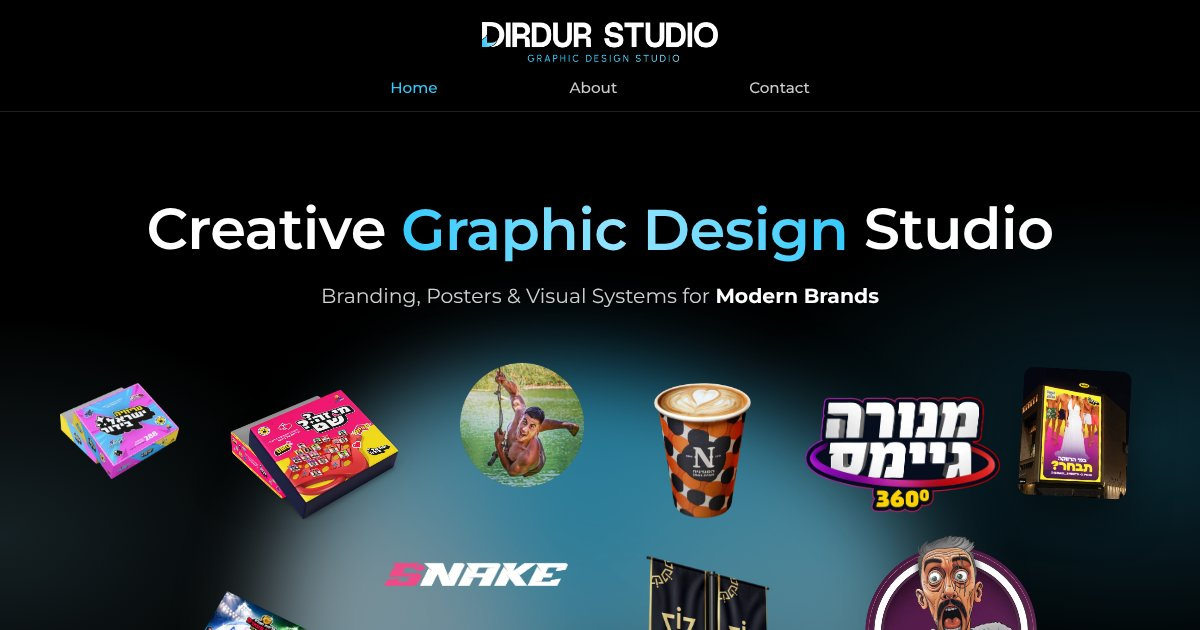
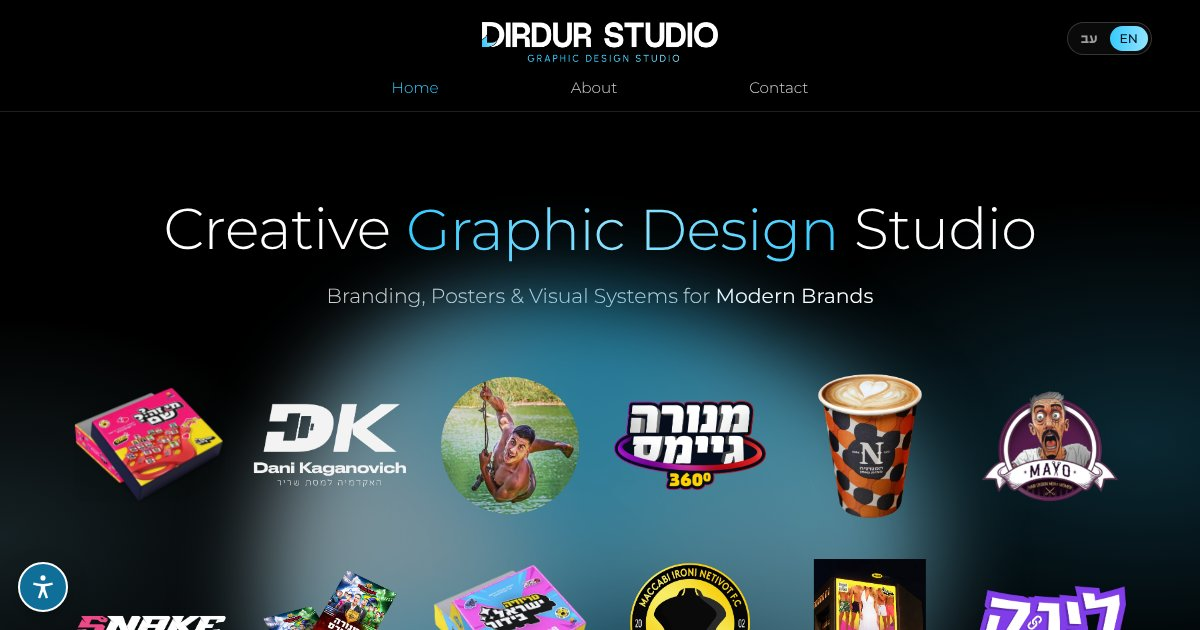
Home: uniform 6x3 grid, hide EL AL YOUNG until release
- 18 works in a regular grid (6 per row, 3 on phones), types
  interleaved, optical sizing with a slight lift for the three
  lead projects
- EL AL YOUNG removed from the grid, project order, next-project
  links and the About wall; its route is disabled; El Al dropped
  from the meta description
- Refreshed share image

Claude-Session: https://claude.ai/code/session_01LH9EpPcmjKk2DHCzSzRqG6

diff --git a/index.html b/index.html
@@ -4,7 +4,7 @@
 <meta charset="UTF-8">
 <meta name="viewport" content="width=device-width, initial-scale=1, viewport-fit=cover">
 <title>DIRDUR STUDIO | סטודיו לעיצוב גרפי ומיתוג</title>
-<meta name="description" content="DIRDUR STUDIO – סטודיו לעיצוב גרפי ומיתוג: זהות מותגית, עיצוב אירועים, פוסטרים, אריזות ומשחקי קופסה, תוכן לרשתות ומושן. בין הלקוחות: ישראל בידור, אל על, XBOX, Microsoft ו־adidas.">
+<meta name="description" content="DIRDUR STUDIO – סטודיו לעיצוב גרפי ומיתוג: זהות מותגית, עיצוב אירועים, פוסטרים, אריזות ומשחקי קופסה, תוכן לרשתות ומושן. בין הלקוחות: ישראל בידור, XBOX, Microsoft ו־adidas.">
 <link rel="canonical" href="https://dirdurstudio.com/">
 <meta name="theme-color" content="#000000">
 <link rel="icon" href="favicon.ico" sizes="any">
@@ -13,12 +13,12 @@
 <meta property="og:type" content="website">
 <meta property="og:site_name" content="DIRDUR STUDIO">
 <meta property="og:title" content="DIRDUR STUDIO | סטודיו לעיצוב גרפי ומיתוג">
-<meta property="og:description" content="DIRDUR STUDIO – סטודיו לעיצוב גרפי ומיתוג: זהות מותגית, עיצוב אירועים, פוסטרים, אריזות ומשחקי קופסה, תוכן לרשתות ומושן. בין הלקוחות: ישראל בידור, אל על, XBOX, Microsoft ו־adidas.">
+<meta property="og:description" content="DIRDUR STUDIO – סטודיו לעיצוב גרפי ומיתוג: זהות מותגית, עיצוב אירועים, פוסטרים, אריזות ומשחקי קופסה, תוכן לרשתות ומושן. בין הלקוחות: ישראל בידור, XBOX, Microsoft ו־adidas.">
 <meta property="og:url" content="https://dirdurstudio.com/">
 <meta property="og:image" content="https://dirdurstudio.com/img/og.jpg">
 <meta property="og:locale" content="he_IL">
 <meta name="twitter:card" content="summary_large_image">
-<script type="application/ld+json">{"@context":"https://schema.org","@type":"ProfessionalService","name":"DIRDUR STUDIO","alternateName":"דירדור סטודיו","url":"https://dirdurstudio.com/","description":"DIRDUR STUDIO – סטודיו לעיצוב גרפי ומיתוג: זהות מותגית, עיצוב אירועים, פוסטרים, אריזות ומשחקי קופסה, תוכן לרשתות ומושן. בין הלקוחות: ישראל בידור, אל על, XBOX, Microsoft ו־adidas.","email":"dirdurdesign@gmail.com","telephone":"+972504654462","areaServed":"IL","image":"https://dirdurstudio.com/img/og.jpg","logo":"https://dirdurstudio.com/icon-192.png","sameAs":["https://www.instagram.com/dirdurstudio/"]}</script>
+<script type="application/ld+json">{"@context":"https://schema.org","@type":"ProfessionalService","name":"DIRDUR STUDIO","alternateName":"דירדור סטודיו","url":"https://dirdurstudio.com/","description":"DIRDUR STUDIO – סטודיו לעיצוב גרפי ומיתוג: זהות מותגית, עיצוב אירועים, פוסטרים, אריזות ומשחקי קופסה, תוכן לרשתות ומושן. בין הלקוחות: ישראל בידור, XBOX, Microsoft ו־adidas.","email":"dirdurdesign@gmail.com","telephone":"+972504654462","areaServed":"IL","image":"https://dirdurstudio.com/img/og.jpg","logo":"https://dirdurstudio.com/icon-192.png","sameAs":["https://www.instagram.com/dirdurstudio/"]}</script>
 <link rel="preload" href="fonts/singulari-300.woff2" as="font" type="font/woff2" crossorigin><link rel="preload" href="fonts/singulari-500.woff2" as="font" type="font/woff2" crossorigin><link rel="preconnect" href="https://fonts.googleapis.com"><link rel="preconnect" href="https://fonts.gstatic.com" crossorigin>
 <link href="https://fonts.googleapis.com/css2?family=Montserrat:wght@200;300;400;500;600;700&display=swap" rel="stylesheet">
  <style>@font-face{font-family:"Singulari";src:url("fonts/singulari-200.woff2") format("woff2");font-weight:200;font-style:normal;font-display:swap;unicode-range:U+0590-05FF,U+FB1D-FB4F,U+20AA}
@@ -557,11 +557,11 @@ html.a11y-still *,html.a11y-still *::before,html.a11y-still *::after{animation:n
 @media (max-width:760px){.a11y-btn{width:44px;height:44px;bottom:12px;left:12px}.a11y-panel{bottom:66px;left:12px}}
 /* ===== static home grid ===== */
 .field{width:min(1080px,94vw);aspect-ratio:auto;perspective:none;margin-top:clamp(28px,4vw,50px)}
-.layer{position:relative;inset:auto;display:grid;grid-template-columns:repeat(6,1fr);grid-auto-rows:calc(min(1080px,94vw)/6);grid-template-areas:"a a s1 s2 b b" "a a s3 s4 b b" "w1 w1 c c s5 s6" "s7 s8 c c w2 w2" "d d w3 w3 s9 t" "d d w4 w4 s10 t";transform:none!important}
+.layer{position:relative;inset:auto;display:grid;grid-template-columns:repeat(6,1fr);grid-auto-rows:calc(min(1080px,94vw)/6);transform:none!important}
 .w{position:static;width:auto;display:flex;align-items:center;justify-content:center;opacity:1!important;transform:none!important}
 .w img{height:auto;max-height:100%;max-width:100%}
 .w-card img,.g-f img[src*="elal"],.g-tl img{border-radius:10px;box-shadow:0 18px 40px rgba(0,0,0,.5)}
-@media (max-width:760px){.field{width:94vw}.layer{grid-template-columns:repeat(3,1fr);grid-auto-rows:calc(94vw/3);grid-template-areas:"a a s1" "a a s2" "w1 w1 s3" "s4 b b" "s5 b b" "w2 w2 s6" "c c s7" "c c s8" "w3 w3 t" "w4 w4 t" "d d s9" "d d s10"}}
+@media (max-width:760px){.field{width:94vw}.layer{grid-template-columns:repeat(3,1fr);grid-auto-rows:calc(94vw/3)}}
 </style>
 </head>
 <body>
@@ -580,7 +580,7 @@ html.a11y-still *,html.a11y-still *::before,html.a11y-still *::after{animation:n
   <h1 class="split" data-dir><span class="m"><span data-i18n="hero.a">Creative</span></span> <span class="m"><span><span class="tech" id="tech" aria-label="Graphic Design">Graphic Design</span></span></span> <span class="m"><span data-i18n="hero.c">Studio</span></span></h1>
   <p class="sub reveal" data-dir data-i18n="hero.sub">Branding, Posters &amp; Visual Systems for <b>Modern Brands</b></p>
  </section>
- <div class="field" id="field"><div class="blob2" aria-hidden="true"><i></i><i></i><i></i></div><div class="layer" id="layer"><a class="w g-f" style="grid-area:a" href="#/work/6" aria-label="Who Is It?"><img src="img/work/w06.webp" alt="" style="width:79.2%"></a><a class="w g-f" style="grid-area:b" href="#/work/17" aria-label="Trivia Israel Bidur"><img src="img/tr-tile.webp" alt="" style="width:76.8%"></a><a class="w g-f" style="grid-area:c" href="#/work/5" aria-label="Fidias Panayiotou"><img src="img/work/w05.webp" alt="" style="width:68.9%"></a><a class="w g-f" style="grid-area:d" href="#/work/16" aria-label="EL AL YOUNG"><img src="img/elal-tile.webp" alt="" style="width:80.5%"></a><a class="w g-wd" style="grid-area:w1" href="#/work/1" aria-label="Menora Games 360°"><img src="img/work/w01.webp" alt="" style="width:51.1%"></a><a class="w g-wd" style="grid-area:w2" href="#/work/7" aria-label="Dani Kaganovich"><img src="img/work/w07.webp" alt="" style="width:53.1%"></a><a class="w g-wd" style="grid-area:w3" href="#/work/15" aria-label="Snake"><img src="img/work/w15.webp" alt="" style="width:84.0%"></a><a class="w g-wd" style="grid-area:w4" href="#/work/4" aria-label="Link"><img src="img/work/w04.webp" alt="" style="width:54.2%"></a><a class="w g-tl" style="grid-area:t" href="#/work/18" aria-label="Israel Shorts"><img src="img/ib-shorts-tile.webp" alt="" style="width:72.4%"></a><a class="w g-s" style="grid-area:s1" href="#/work/13" aria-label="Mayo Barbershop"><img src="img/work/w13.webp" alt="" style="width:75.4%"></a><a class="w g-s" style="grid-area:s2" href="#/work/2" aria-label="HaMagdania by Neeman"><img src="img/work/w02.webp" alt="" style="width:57.5%"></a><a class="w g-s" style="grid-area:s3" href="#/work/8" aria-label="Maccabi Ironi Netivot"><img src="img/work/w08.webp" alt="" style="width:66.6%"></a><a class="w g-s" style="grid-area:s4" href="#/work/12" aria-label="Menora Stars"><img src="img/work/w12.webp" alt="" style="width:74.1%"></a><a class="w g-s" style="grid-area:s5" href="#/work/9" aria-label="Inda's Million Celebration"><img src="img/work/w09.webp" alt="" style="width:61.4%"></a><a class="w g-s" style="grid-area:s6" href="#/work/11" aria-label="YouTubers Championship"><img src="img/work/w11.webp" alt="" style="width:69.3%"></a><a class="w g-s" style="grid-area:s7" href="#/work/3" aria-label="Ping Pong Camp"><img src="img/work/w03.webp" alt="" style="width:70.5%"></a><a class="w g-s" style="grid-area:s8" href="#/work/10" aria-label="Hanukkah Event"><img src="img/work/w10.webp" alt="" style="width:71.3%"></a><a class="w g-s" style="grid-area:s9" href="#/work/14" aria-label="Scam Hunter"><img src="img/work/w14.webp" alt="" style="width:82.0%"></a><a class="w g-s" style="grid-area:s10" href="#/work/0" aria-label="Glasses Gift Box"><img src="img/work/w00.webp" alt="" style="width:66.9%"></a></div></div>
+ <div class="field" id="field"><div class="blob2" aria-hidden="true"><i></i><i></i><i></i></div><div class="layer" id="layer"><a class="w" href="#/work/6" aria-label="Who Is It?"><img src="img/work/w06.webp" alt="" style="width:84.0%"></a><a class="w" href="#/work/7" aria-label="Dani Kaganovich"><img src="img/work/w07.webp" alt="" style="width:84.0%"></a><a class="w" href="#/work/5" aria-label="Fidias Panayiotou"><img src="img/work/w05.webp" alt="" style="width:76.2%"></a><a class="w" href="#/work/1" aria-label="Menora Games 360°"><img src="img/work/w01.webp" alt="" style="width:84.0%"></a><a class="w" href="#/work/2" aria-label="HaMagdania by Neeman"><img src="img/work/w02.webp" alt="" style="width:57.5%"></a><a class="w" href="#/work/13" aria-label="Mayo Barbershop"><img src="img/work/w13.webp" alt="" style="width:75.4%"></a><a class="w" href="#/work/15" aria-label="Snake"><img src="img/work/w15.webp" alt="" style="width:84.0%"></a><a class="w" href="#/work/12" aria-label="Menora Stars"><img src="img/work/w12.webp" alt="" style="width:74.1%"></a><a class="w" href="#/work/17" aria-label="Trivia Israel Bidur"><img src="img/tr-tile.webp" alt="" style="width:84.0%"></a><a class="w" href="#/work/8" aria-label="Maccabi Ironi Netivot"><img src="img/work/w08.webp" alt="" style="width:66.6%"></a><a class="w" href="#/work/18" aria-label="Israel Shorts"><img src="img/ib-shorts-tile.webp" alt="" style="width:62.3%"></a><a class="w" href="#/work/4" aria-label="Link"><img src="img/work/w04.webp" alt="" style="width:84.0%"></a><a class="w" href="#/work/10" aria-label="Hanukkah Event"><img src="img/work/w10.webp" alt="" style="width:71.3%"></a><a class="w" href="#/work/14" aria-label="Scam Hunter"><img src="img/work/w14.webp" alt="" style="width:82.0%"></a><a class="w" href="#/work/3" aria-label="Ping Pong Camp"><img src="img/work/w03.webp" alt="" style="width:70.5%"></a><a class="w" href="#/work/11" aria-label="YouTubers Championship"><img src="img/work/w11.webp" alt="" style="width:69.3%"></a><a class="w" href="#/work/9" aria-label="Inda's Million Celebration"><img src="img/work/w09.webp" alt="" style="width:61.4%"></a><a class="w" href="#/work/0" aria-label="Glasses Gift Box"><img src="img/work/w00.webp" alt="" style="width:66.9%"></a></div></div>
  <div class="marq" aria-hidden="true"><div class="track" id="track"></div></div>
  <section class="stats" data-dir dir="rtl" aria-label="הסטודיו במספרים" data-i18n-aria="stats.aria">
   <div class="st"><b dir="ltr"><span class="num" data-to="48">48</span>M</b><span data-i18n="stats.1">חשיפות לטקס נבחרי ישראל בידור 2026</span></div>
@@ -669,7 +669,7 @@ html.a11y-still *,html.a11y-still *::before,html.a11y-still *::after{animation:n
 <script src="https://cdnjs.cloudflare.com/ajax/libs/gsap/3.12.5/gsap.min.js"></script>
 <script src="https://cdnjs.cloudflare.com/ajax/libs/gsap/3.12.5/ScrollTrigger.min.js"></script>
 <script src="https://cdn.jsdelivr.net/npm/lenis@1.1.13/dist/lenis.min.js"></script>
-<script>var D={"names": {"0": ["Glasses Gift Box", "Packaging"], "1": ["Menora Games 360°", "Event Branding"], "2": ["HaMagdania by Neeman", "Branding"], "3": ["Ping Pong Camp", "Logo"], "4": ["Link", "Logo"], "5": ["Fidias Panayiotou", "Visual"], "6": ["Mi Ze Shem?", "Board Game"], "7": ["Dani Kaganovich", "Branding"], "8": ["Maccabi Ironi Netivot", "Logo"], "9": ["Inda's Million Celebration", "Event Branding"], "10": ["Hanukkah Event", "Event Branding"], "11": ["YouTubers Championship", "Posters"], "12": ["Menora Stars", "Posters"], "13": ["Mayo Barbershop", "Logo"], "14": ["Scam Hunter", "Packaging"], "15": ["Snake", "Logo"], "16": ["EL AL YOUNG", "Packaging"], "17": ["Trivia Israel Bidur", "Board Game"], "18": ["Israel Shorts", "Outdoor Campaign"]}, "order": [17, 6, 18, 16, 5, 2, 1, 15, 12, 8, 7, 9, 13, 3, 14, 11, 4, 0, 10]},IMG={"17":"img/tr-tile.webp","18":"img/ib-shorts-tile.webp","16":"img/elal-tile.webp","0": "img/work/w00.webp", "1": "img/work/w01.webp", "2": "img/work/w02.webp", "3": "img/work/w03.webp", "4": "img/work/w04.webp", "5": "img/work/w05.webp", "6": "img/work/w06.webp", "7": "img/work/w07.webp", "8": "img/work/w08.webp", "9": "img/work/w09.webp", "10": "img/work/w10.webp", "11": "img/work/w11.webp", "12": "img/work/w12.webp", "13": "img/work/w13.webp", "14": "img/work/w14.webp", "15": "img/work/w15.webp"},EXTRA={"1": ["img/work/extra-1.webp", "img/work/extra-2.webp"], "12": ["img/work/extra-2.webp", "img/work/extra-1.webp"]},MAIL="dirdurdesign@gmail.com";
+<script>var D={"names": {"0": ["Glasses Gift Box", "Packaging"], "1": ["Menora Games 360°", "Event Branding"], "2": ["HaMagdania by Neeman", "Branding"], "3": ["Ping Pong Camp", "Logo"], "4": ["Link", "Logo"], "5": ["Fidias Panayiotou", "Visual"], "6": ["Mi Ze Shem?", "Board Game"], "7": ["Dani Kaganovich", "Branding"], "8": ["Maccabi Ironi Netivot", "Logo"], "9": ["Inda's Million Celebration", "Event Branding"], "10": ["Hanukkah Event", "Event Branding"], "11": ["YouTubers Championship", "Posters"], "12": ["Menora Stars", "Posters"], "13": ["Mayo Barbershop", "Logo"], "14": ["Scam Hunter", "Packaging"], "15": ["Snake", "Logo"], "16": ["EL AL YOUNG", "Packaging"], "17": ["Trivia Israel Bidur", "Board Game"], "18": ["Israel Shorts", "Outdoor Campaign"]}, "order": [6, 7, 5, 1, 2, 13, 15, 12, 17, 8, 18, 4, 10, 14, 3, 11, 9, 0]},IMG={"17":"img/tr-tile.webp","18":"img/ib-shorts-tile.webp","16":"img/elal-tile.webp","0": "img/work/w00.webp", "1": "img/work/w01.webp", "2": "img/work/w02.webp", "3": "img/work/w03.webp", "4": "img/work/w04.webp", "5": "img/work/w05.webp", "6": "img/work/w06.webp", "7": "img/work/w07.webp", "8": "img/work/w08.webp", "9": "img/work/w09.webp", "10": "img/work/w10.webp", "11": "img/work/w11.webp", "12": "img/work/w12.webp", "13": "img/work/w13.webp", "14": "img/work/w14.webp", "15": "img/work/w15.webp"},EXTRA={"1": ["img/work/extra-1.webp", "img/work/extra-2.webp"], "12": ["img/work/extra-2.webp", "img/work/extra-1.webp"]},MAIL="dirdurdesign@gmail.com";
 var RM=matchMedia('(prefers-reduced-motion: reduce)').matches;
 var FINE=matchMedia('(hover:hover) and (pointer:fine)').matches;
 var STILL0=(function(){try{return !!JSON.parse(localStorage.getItem('a11y')||'{}').still}catch(e){return false}})();
@@ -825,7 +825,7 @@ function work(id){
  document.getElementById('p-work').innerHTML=h;
 }
 function resolve(){var h=location.hash,m=h.match(/^#\/work\/(\d+)/);
- if(m&&D.names[m[1]])return {k:'work',id:+m[1]};
+ if(m&&D.names[m[1]]&&D.order.indexOf(+m[1])>-1)return {k:'work',id:+m[1]};
  if(h==='#/about')return {k:'about'}; if(h==='#/contact')return {k:'contact'}; if(h==='#/accessibility')return {k:'a11y'}; return {k:'home'};}
 var STMT={he:"<h1>הצהרת נגישות</h1>\n<p class=\"st-upd\">עודכן לאחרונה: 2 בנובמבר 2026</p>\n<p>ב־DIRDUR STUDIO אנחנו רואים חשיבות בכך שהאתר יהיה נגיש ונוח לשימוש לכל אדם, כולל אנשים עם מוגבלות. השקענו מאמצים להנגיש את האתר בהתאם לתקנות שוויון זכויות לאנשים עם מוגבלות (התאמות נגישות לשירות), התשע״ג–2013, ולתקן הישראלי ת״י 5568, המבוסס על הנחיות WCAG ברמה AA.</p>\n<h2>מה עשינו באתר</h2>\n<ul>\n<li>האתר זמין בעברית ובאנגלית, עם כיוון כתיבה מתאים לכל שפה.</li>\n<li>ניתן לנווט באתר באמצעות המקלדת, עם סימון בולט של הרכיב שבפוקוס וקישור „דלג לתוכן”.</li>\n<li>לתמונות התוכן יש טקסט חלופי, ותמונות קישוטיות מסומנות כך שקוראי מסך מדלגים עליהן.</li>\n<li>ניגודיות הצבעים של הטקסטים הותאמה לדרישות התקן.</li>\n<li>לכל סרטון שמתנגן אוטומטית יש כפתור השהיה, והסרטונים מתנגנים ללא קול.</li>\n<li>תפריט נגישות (הכפתור בפינת המסך) מאפשר: הגדלת טקסט, ניגודיות גבוהה, הדגשת קישורים, גופן קריא, גווני אפור ועצירת כל האנימציות והסרטונים.</li>\n<li>האתר מכבד את הגדרת „הפחתת תנועה” של מערכת ההפעלה.</li>\n<li>לטופס יצירת הקשר יש תוויות לשדות והודעות שגיאה ברורות.</li>\n<li>האתר מותאם לתצוגה במחשב ובטלפון, ותומך בהגדלת התצוגה בדפדפן.</li>\n</ul>\n<h2>מגבלות ידועות</h2>\n<ul>\n<li>תצוגת התלת־ממד של קופסת הטריוויה מוטמעת משירות חיצוני (Pacdora) ואינה בשליטתנו המלאה. כל המידע על הקופסה מופיע גם בתמונות ובטקסט שבעמוד.</li>\n<li>חלק מהתמונות (למשל צילומי סטוריז מאינסטגרם) כוללות טקסט בתוך התמונה, שאינו זמין במלואו כטקסט.</li>\n<li>הקישורים לסרטוני יוטיוב ולרשתות חברתיות מובילים לאתרים חיצוניים, שרמת הנגישות שלהם באחריות מפעיליהם.</li>\n</ul>\n<p>אנחנו ממשיכים לשפר את נגישות האתר. אם נתקלתם ברכיב שאינו נגיש, נשמח לשמוע ולתקן.</p>\n<h2>פניות בנושא נגישות</h2>\n<p>רכז הנגישות של DIRDUR STUDIO<br>אימייל: <a href=\"mailto:dirdurdesign@gmail.com\">dirdurdesign@gmail.com</a><br>טלפון / וואטסאפ: <a href=\"tel:+972504654462\" dir=\"ltr\">050-465-4462</a></p>\n<p>כדי שנוכל לטפל בפנייה, נשמח אם תפרטו מה הבעיה, באיזה עמוד נתקלתם בה, ובאיזה דפדפן וטכנולוגיה מסייעת השתמשתם. נחזור אליכם בהקדם.</p>",en:"<h1>Accessibility statement</h1>\n<p class=\"st-upd\">Last updated: November 2, 2026</p>\n<p>At DIRDUR STUDIO we want our website to be accessible and easy to use for everyone, including people with disabilities. We have worked to make the site accessible in line with the Israeli Equal Rights for Persons with Disabilities (Service Accessibility Adjustments) Regulations, 2013, and Israeli Standard IS 5568, which is based on the WCAG guidelines at level AA.</p>\n<h2>What we have done</h2>\n<ul>\n<li>The site is available in Hebrew and English, with the correct text direction for each language.</li>\n<li>The site can be navigated with a keyboard, with a clear focus indicator and a “Skip to content” link.</li>\n<li>Content images have text alternatives, and decorative images are marked so screen readers skip them.</li>\n<li>Text colour contrast has been adjusted to meet the standard.</li>\n<li>Every video that plays automatically has a pause button, and videos play without sound.</li>\n<li>An accessibility menu (the button in the corner of the screen) offers larger text, high contrast, link highlighting, a readable font, grayscale, and stopping all animations and videos.</li>\n<li>The site respects the operating system’s “reduce motion” setting.</li>\n<li>The contact form has labelled fields and clear error messages.</li>\n<li>The site works on desktop and mobile, and supports browser zoom.</li>\n</ul>\n<h2>Known limitations</h2>\n<ul>\n<li>The 3D view of the trivia box is embedded from an external service (Pacdora) that is not fully under our control. All information about the box is also available in the images and text on the page.</li>\n<li>Some images (such as Instagram story screenshots) contain text within the image that is not fully available as text.</li>\n<li>Links to YouTube videos and social networks lead to external sites whose accessibility is the responsibility of their operators.</li>\n</ul>\n<p>We keep improving the site’s accessibility. If you come across something that is not accessible, please let us know and we will fix it.</p>\n<h2>Accessibility contact</h2>\n<p>DIRDUR STUDIO accessibility coordinator<br>Email: <a href=\"mailto:dirdurdesign@gmail.com\">dirdurdesign@gmail.com</a><br>Phone / WhatsApp: <a href=\"tel:+972504654462\">+972 50-465-4462</a></p>\n<p>To help us handle your request, please describe the issue, the page where you found it, and the browser and assistive technology you were using. We will get back to you soon.</p>"};
 function mount(r){if(r.k==='work'){work(r.id);fidWire()}
